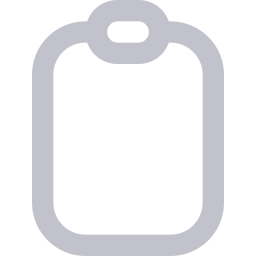
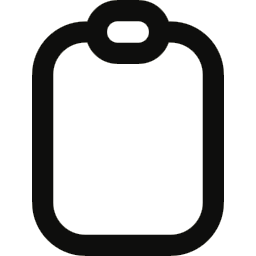
Copy Text Button Implementation + Website Responsiveness Changes
I added a button that a user can use to copy the text currently on the screen to the clipboard. Additionally, I made various changes to make the website feel more dynamic/responsive + more aesthetically pleasing.

Changed region(s): [[0.125, 0.0, 0.875, 1.0]]

diff --git a/FrontEnd/static/style.css b/FrontEnd/static/style.css
@@ -8,10 +8,6 @@
 
 :root {
 
-  transition: all 0.1s;
-
-  --accentTwo: #202020; /* Main Content window and Query Box*/
-  --textAndAccentFour: #eaeaea;
   --deselectedColor: #a8a6a6;
   --loginInputBox: #c5c5c5;
 
@@ -54,7 +50,7 @@ pre {
   justify-content: space-between;
   align-items: center;
   background: var(--secondaryColor);
-  width: 16%;
+  width: 15%;
   height: 100%;
   float: left;
 
@@ -91,9 +87,9 @@ pre {
 .profilePicture{
 
   height: 80%;
-  width: 25%;
+  width: 22%;
   border-radius: 20px;
-  margin-left: 5%;
+  margin-left: 3%;
 
 }
 
@@ -218,7 +214,7 @@ pre {
   justify-content: flex-end;
   align-items: center;
   height: 100%;
-  width: 84%;
+  width: 85%;
 }
 
 
@@ -288,7 +284,7 @@ pre {
 .contentGenWindow {
 
   display: flex;
-  height: 70%;
+  height: 75%;
   width: 90%;
   font-size: 2.4vh;
   font-family: Calibri; 
@@ -299,6 +295,24 @@ pre {
   overflow: auto;
   color: var(--textColor);
 
+}
+
+.contentGenWindow::-webkit-scrollbar {
+  width: .3vw;
+}
+
+.contentGenWindow::-webkit-scrollbar-track {
+  margin-top: 4vh;
+  border-radius: 8px;
+  background-color: var(--secondaryColor);
+  border: 1px solid var(--offWhite);
+  box-shadow: inset 0 0 6px rgba(0, 0, 0, .3);
+}
+        
+.contentGenWindow::-webkit-scrollbar-thumb {
+
+  border-radius: 8px;
+  background-color: var(--textColor);
 }
 
 .queryWrapper{
@@ -330,14 +344,28 @@ pre {
   background: none;
   width: 90%;
   height: 100%;
-  padding-top: 1vw;
-  padding-left: 1vw;
-  font-size: 2.4vh;
+  padding-top: 1.2vw;
+  padding-left: 1.2vw;
+  font-size: 2vh;
   color: var(--textColor);
   resize: none;
   border: none;
-  overflow: hidden;
+  overflow-y: scroll;
   outline: none;
+
+}
+
+.queryBox::-webkit-scrollbar {
+  display: none;
+}
+
+.queryButtonWrapper{
+
+  display: flex;
+  align-items: center;
+  justify-content: space-evenly;
+  height: 100%;
+  flex-direction: column;
 
 }
 
@@ -345,15 +373,50 @@ pre {
 
   display: flex;
   align-self: flex-end;
-  margin-bottom: 1%;
+  background-color: var(--secondaryColor);
+  justify-content: center;
+  align-items: center;
+  width: 3vw;
+  height: 3vw;
+  border-radius: 20px;
+  border: none;
+  box-shadow: 0 0 10px rgba(0, 0, 0, 0.2);
+
+}
+
+.genButton:hover {
+  outline: auto;
+  cursor: pointer;
+}
+
+.genButton:active {
+  box-shadow: 0 0 10px rgba(0, 0, 0, 0.6);
+}
+
+.copyButton {
+
+  display: flex;
+  align-self: flex-end;
+  justify-self: flex-end;
   background-color: var(--mainAccentColor);
   justify-content: center;
   align-items: center;
   width: 3vw;
-  height: 35%;
-  border-radius: 30px;
+  height: 3vw;
+  border-radius: 20px;
   border: none;
   box-shadow: 0 0 10px rgba(0, 0, 0, 0.4);
+  visibility: hidden;
+  pointer-events: none;
+
+}
+
+.copyButton:hover {
+  outline: auto;
+  cursor: pointer;
+}
+.copyButton:active {
+  box-shadow: 0 0 10px rgba(0, 0, 0, 0.6);
 }
 
 .genImg {
@@ -365,12 +428,6 @@ pre {
   width: auto;
 }
 
-.genButton:hover {
-
-  outline: auto;
-  cursor: pointer;
-
-}
 
 
 .historyWrapper{
@@ -487,10 +544,8 @@ pre {
 }
 
 .innerUploadWrapper:hover{
-
   border: 1px solid black;
   cursor: pointer;
-
 }
 
 .uploadImg{
@@ -605,9 +660,7 @@ pre {
 }
 
 .deleteFileButton:hover{
-
   cursor: pointer;
-
 }
 
 .uploadAndTrainButtons{
@@ -639,17 +692,13 @@ pre {
 }
 
 #UploadData:hover{
-
   background: var(--mainAccentColor);
   border: 1px solid black;
   cursor: pointer;
-
 }
 
 #UploadData:active {
-
   box-shadow: 0 0 10px rgba(0, 0, 0, 0.6);
-
 }
 
 #TrainModel{
@@ -670,17 +719,13 @@ pre {
 }
 
 #TrainModel:hover{
-
   background: var(--mainAccentColor);
   border: 1px solid black;
   cursor: pointer;
-
 }
 
 #TrainModel:active {
-
   box-shadow: 0 0 10px rgba(0, 0, 0, 0.6);
-
 }
 
 /* Account Creation Page */
@@ -732,6 +777,9 @@ pre {
   color: var(--textColor);
 
 }
+.signInButton:hover{
+  cursor: pointer;
+}
 
 .signUpButton {
 
@@ -745,6 +793,9 @@ pre {
   color: var(--deselectedColor);
   border-bottom: 5px solid var(--deselectedColor);
 
+}
+.signUpButton:hover{
+  cursor: pointer;
 }
 
 .signInAndUpWrapper {
@@ -783,7 +834,6 @@ pre {
   padding-left: 2.5%;
   height: 20%;
   width: 100%;
-  
 
 }
 
@@ -809,6 +859,16 @@ pre {
   border-radius: 10px;
   margin-left: 30%;
 
+}
+
+.ACSubmitButton:hover{
+  cursor: pointer;
+  box-shadow: 0 0 10px rgba(0, 0, 0, 0.3);
+}
+.ACSubmitButton:active{
+  cursor: pointer;
+  box-shadow: 0 0 10px rgba(0, 0, 0, 0.7);
+  border: 3px solid black;
 }
 
 .accountCreationPg{

diff --git a/FrontEnd/templates/ContentGeneration.html b/FrontEnd/templates/ContentGeneration.html
@@ -40,33 +40,35 @@
     <div class="mainContentWrapper">
 
         <div class="mainContentWindow">
-            <div class="mainWindowColumn">
-                <div class="titleBar">
-                    <input placeholder="Untitled Document" class="titleText"/>
-                </div>
-                <div class="generationAndHistoryWrapper">
-                    <div class="contentGenerationWrapper">
-                        <div class="contentGenWindow">
-                            <pre>{{ ai_response }}</pre>
+                    <div class="mainWindowColumn">
+                        <div class="titleBar">
+                            <input placeholder="Untitled Document" class="titleText"/>
                         </div>
-                        <div class="queryWrapper">
-                            <form id="generateForm" method="post" action="{{ url_for('generate_content') }}" class="bottomRowInnerWrapper">
-                                <input type="hidden" name="user_id" id="formUserId"> 
-                                <textarea name="user_prompt" class="queryBox" placeholder="Enter prompt..."></textarea>
-                                <button type="submit" class="genButton" id="genButtonID"><img src="{{ url_for('static', filename='images/upArrow.png') }}" class="genImg"></button>
-                            </form>
+                        <div class="generationAndHistoryWrapper">
+                            <div class="contentGenerationWrapper">
+                                <div class="contentGenWindow">
+                                    <pre>{{ ai_response }}</pre>
+                                </div>
+                                <div class="queryWrapper">
+                                    <form id="generateForm" method="post" action="{{ url_for('generate_content') }}" class="bottomRowInnerWrapper">
+                                        <input type="hidden" name="user_id" id="formUserId"> 
+                                        <textarea name="user_prompt" class="queryBox" placeholder="Enter prompt..."></textarea>
+                                        <div class="queryButtonWrapper">
+                                            <button class="copyButton"><img src="{{ url_for('static', filename='images/clipboard.png') }}" class="genImg" id="copyImg"></button>
+                                            <button type="submit" class="genButton" id="genButtonID"><img src="{{ url_for('static', filename='images/upArrow.png') }}" class="genImg"></button>
+                                        </div>
+                                    </form>
+                                </div>
+                            </div>
+                            
+                            <div class="historyWrapper">
+                                <div class="historyID">History</div>
+                                <div class="historyContentWindow">
+                                </div>
+                            </div>
                         </div>
                     </div>
-                    
-                    <div class="historyWrapper">
-                        <div class="historyID">History</div>
-                        <div class="historyContentWindow">
-                        </div>
-                    </div>
                 </div>
-            </div>
-        </div>
-                <!-- <button type="submit" class="genButton" id="genButton"><img src="{{ url_for('static', filename='images/clipboard.png') }}" class="genImg"></button> -->
             </div>
         </div>
     </div>
